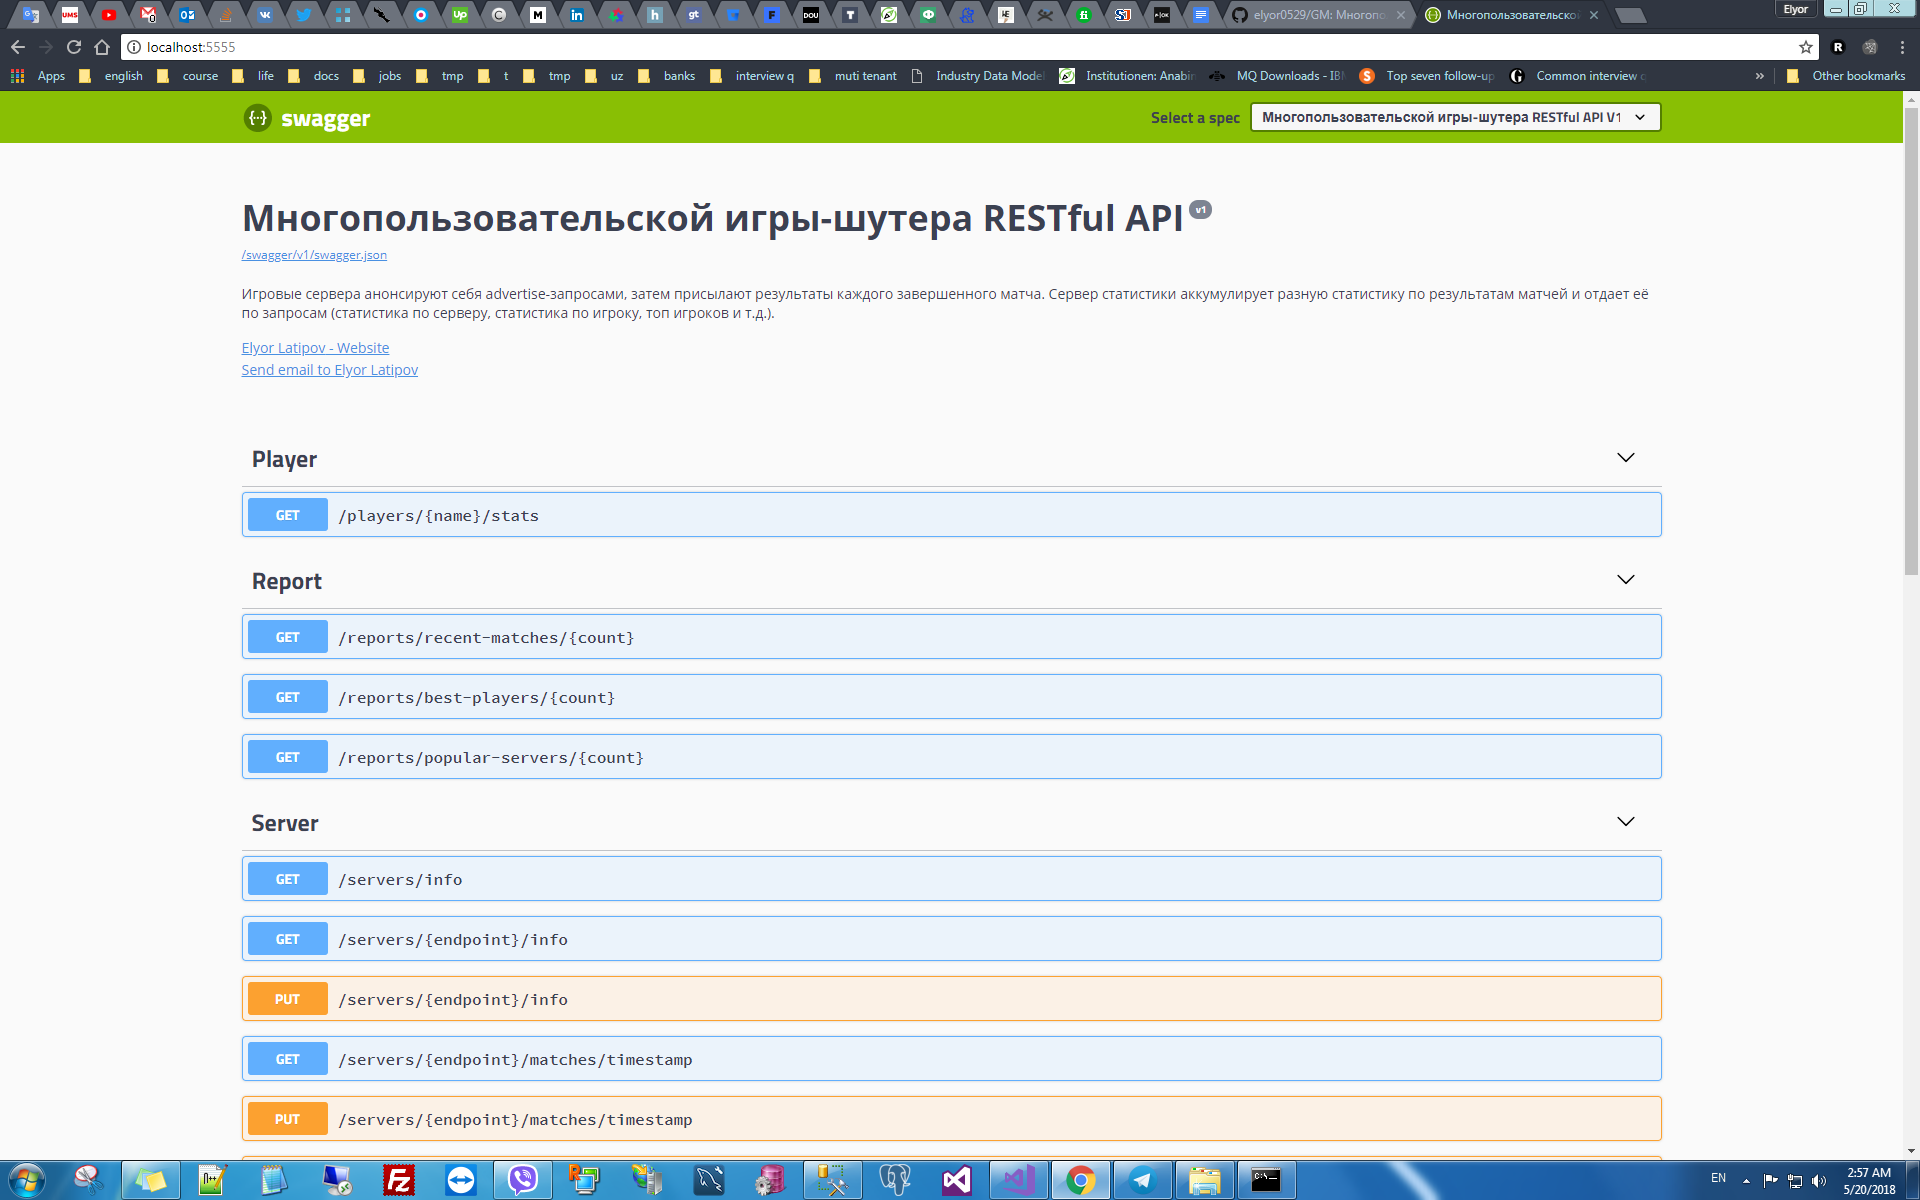
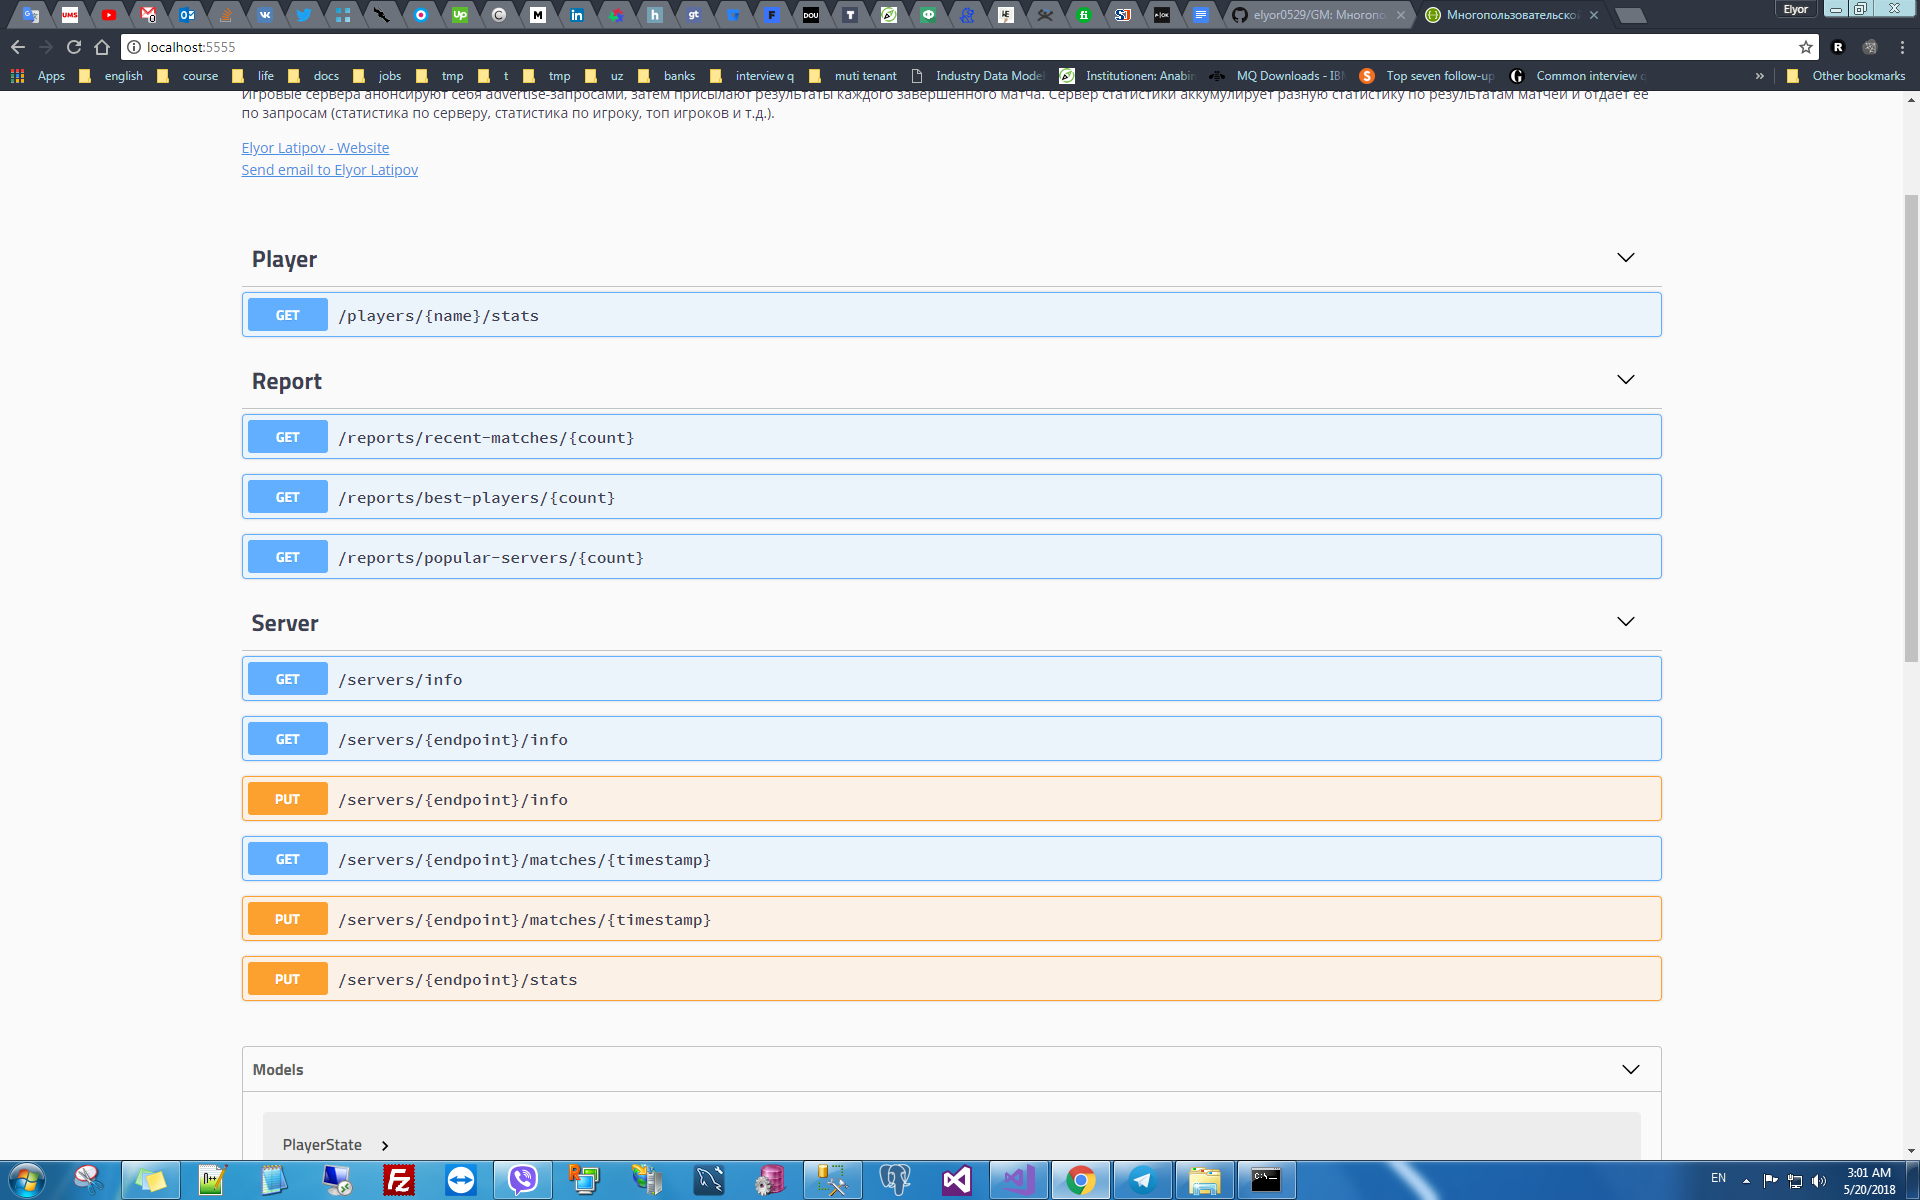
route prefix and api test ui

Changed region(s): [[0.0, 0.0617, 1.0, 0.9558], [0.9688, 0.4933, 1.0, 0.555]]

diff --git a/GM.Api/Controllers/ServerController.cs b/GM.Api/Controllers/ServerController.cs
@@ -42,14 +42,14 @@ namespace GM.Api.Controllers
         }
 
         // <endpoint>/matches/<timestamp> GET
-        [HttpGet("{endpoint}/matches/timestamp")]
+        [HttpGet("{endpoint}/matches/{timestamp}")]
         public async Task<Matche> GetMatches(string endpoint, string timestamp)
         {
             return await _service.GetMatche(endpoint, timestamp);
         }
 
         // endpoint>/matches/<timestamp> PUT 
-        [HttpPut("{endpoint}/matches/timestamp")]
+        [HttpPut("{endpoint}/matches/{timestamp}")]
         public async Task<Matche> PutMatches(string endpoint, string timestamp)
         {
             return await _service.GetMatche(endpoint, timestamp);
